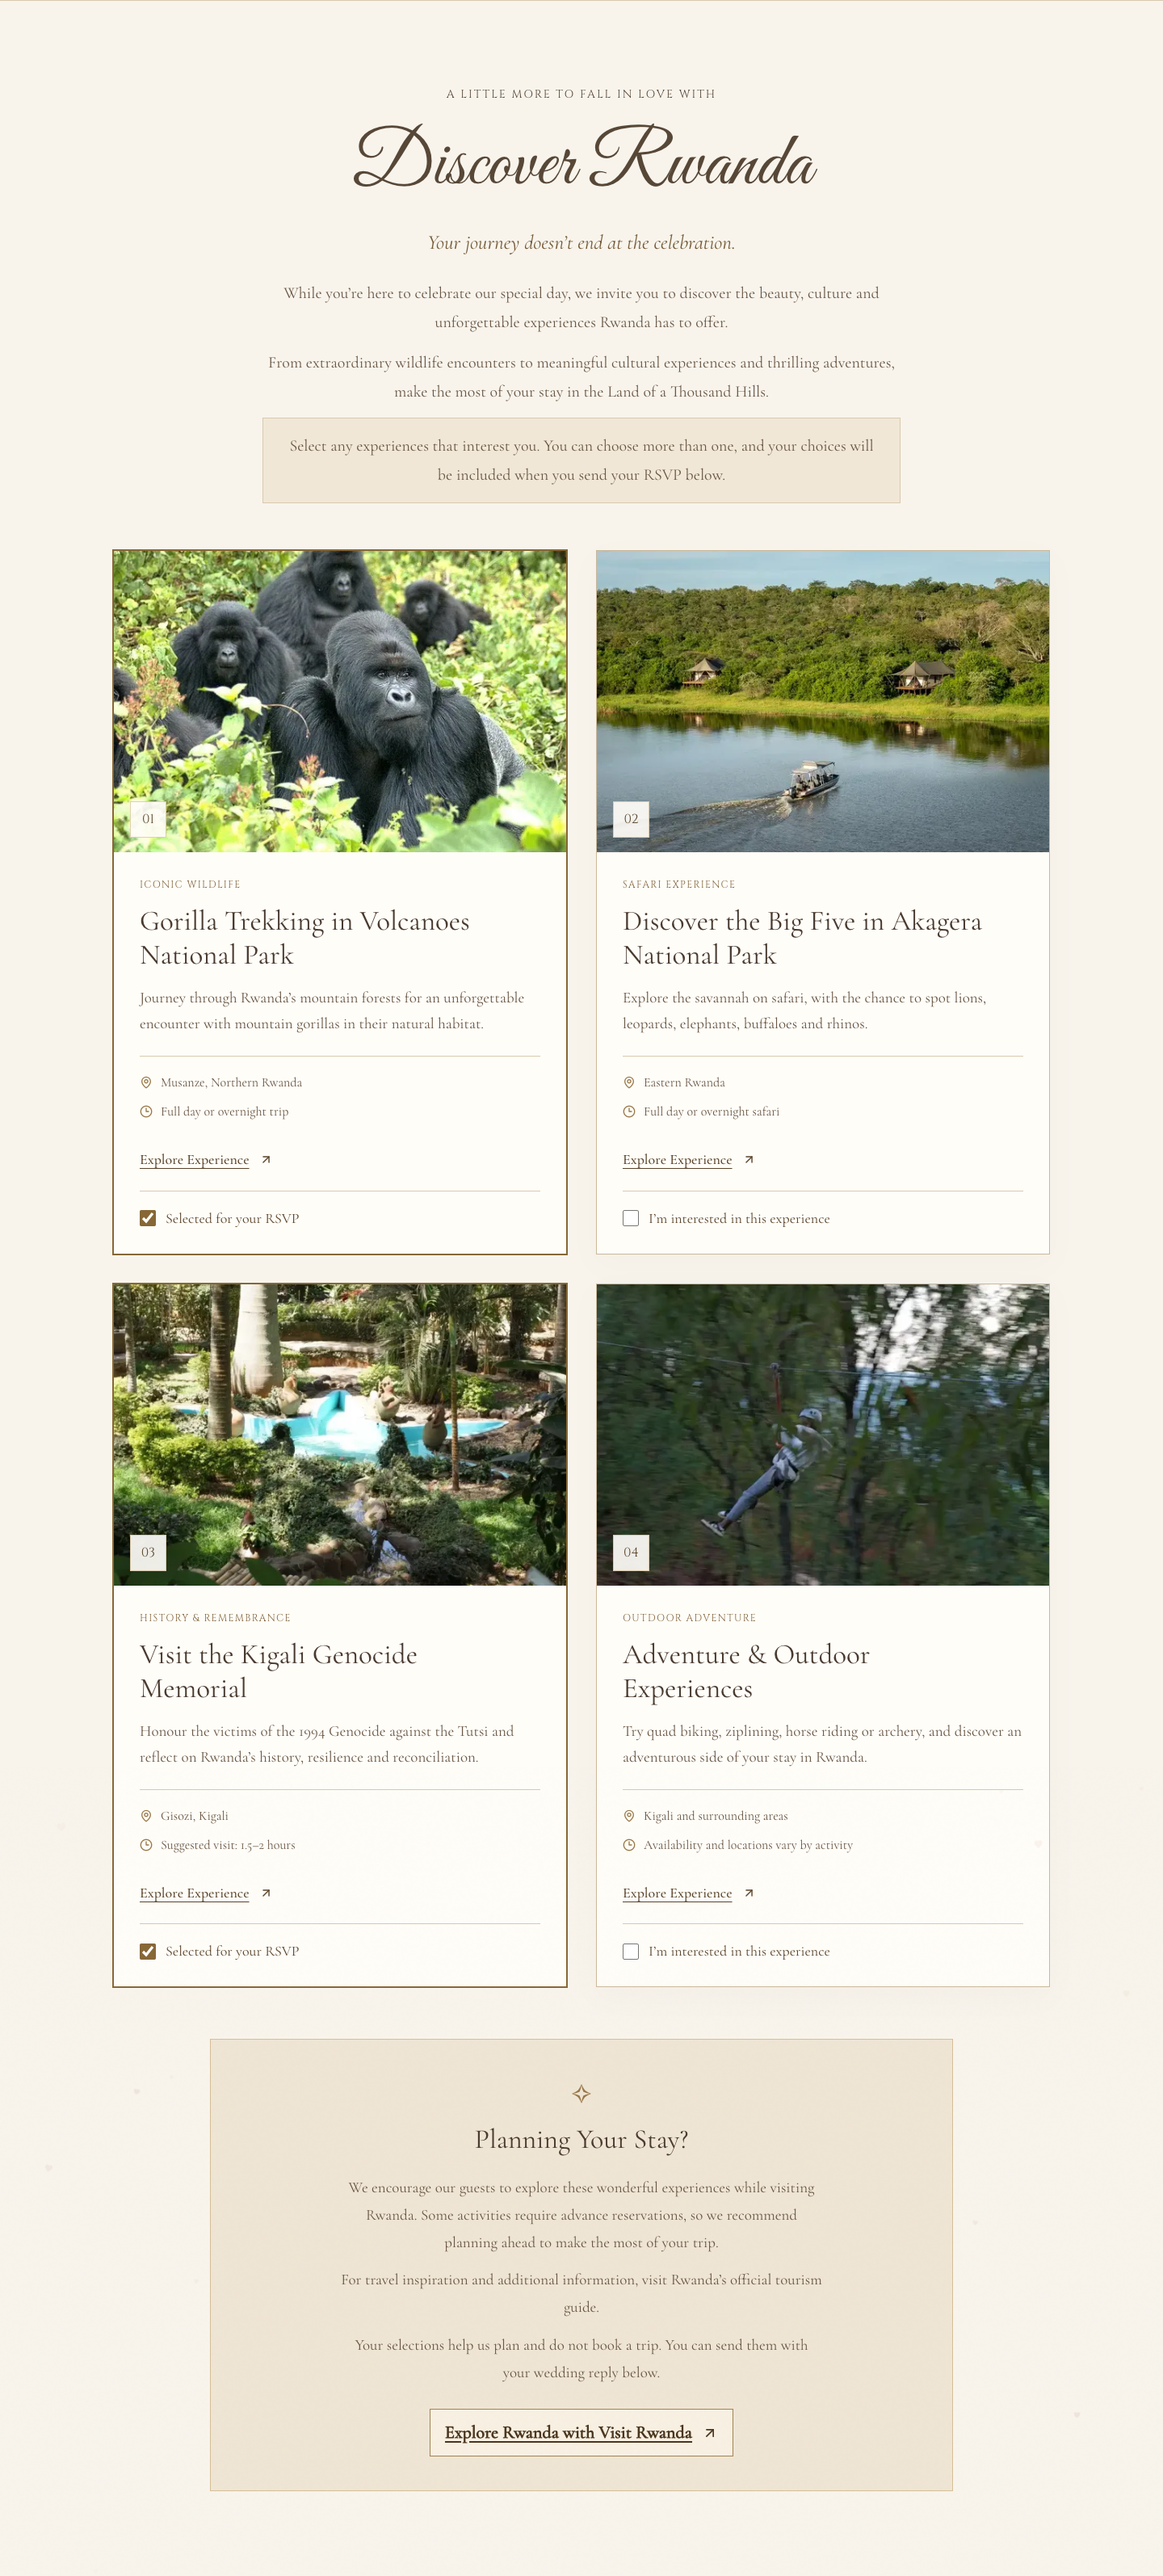
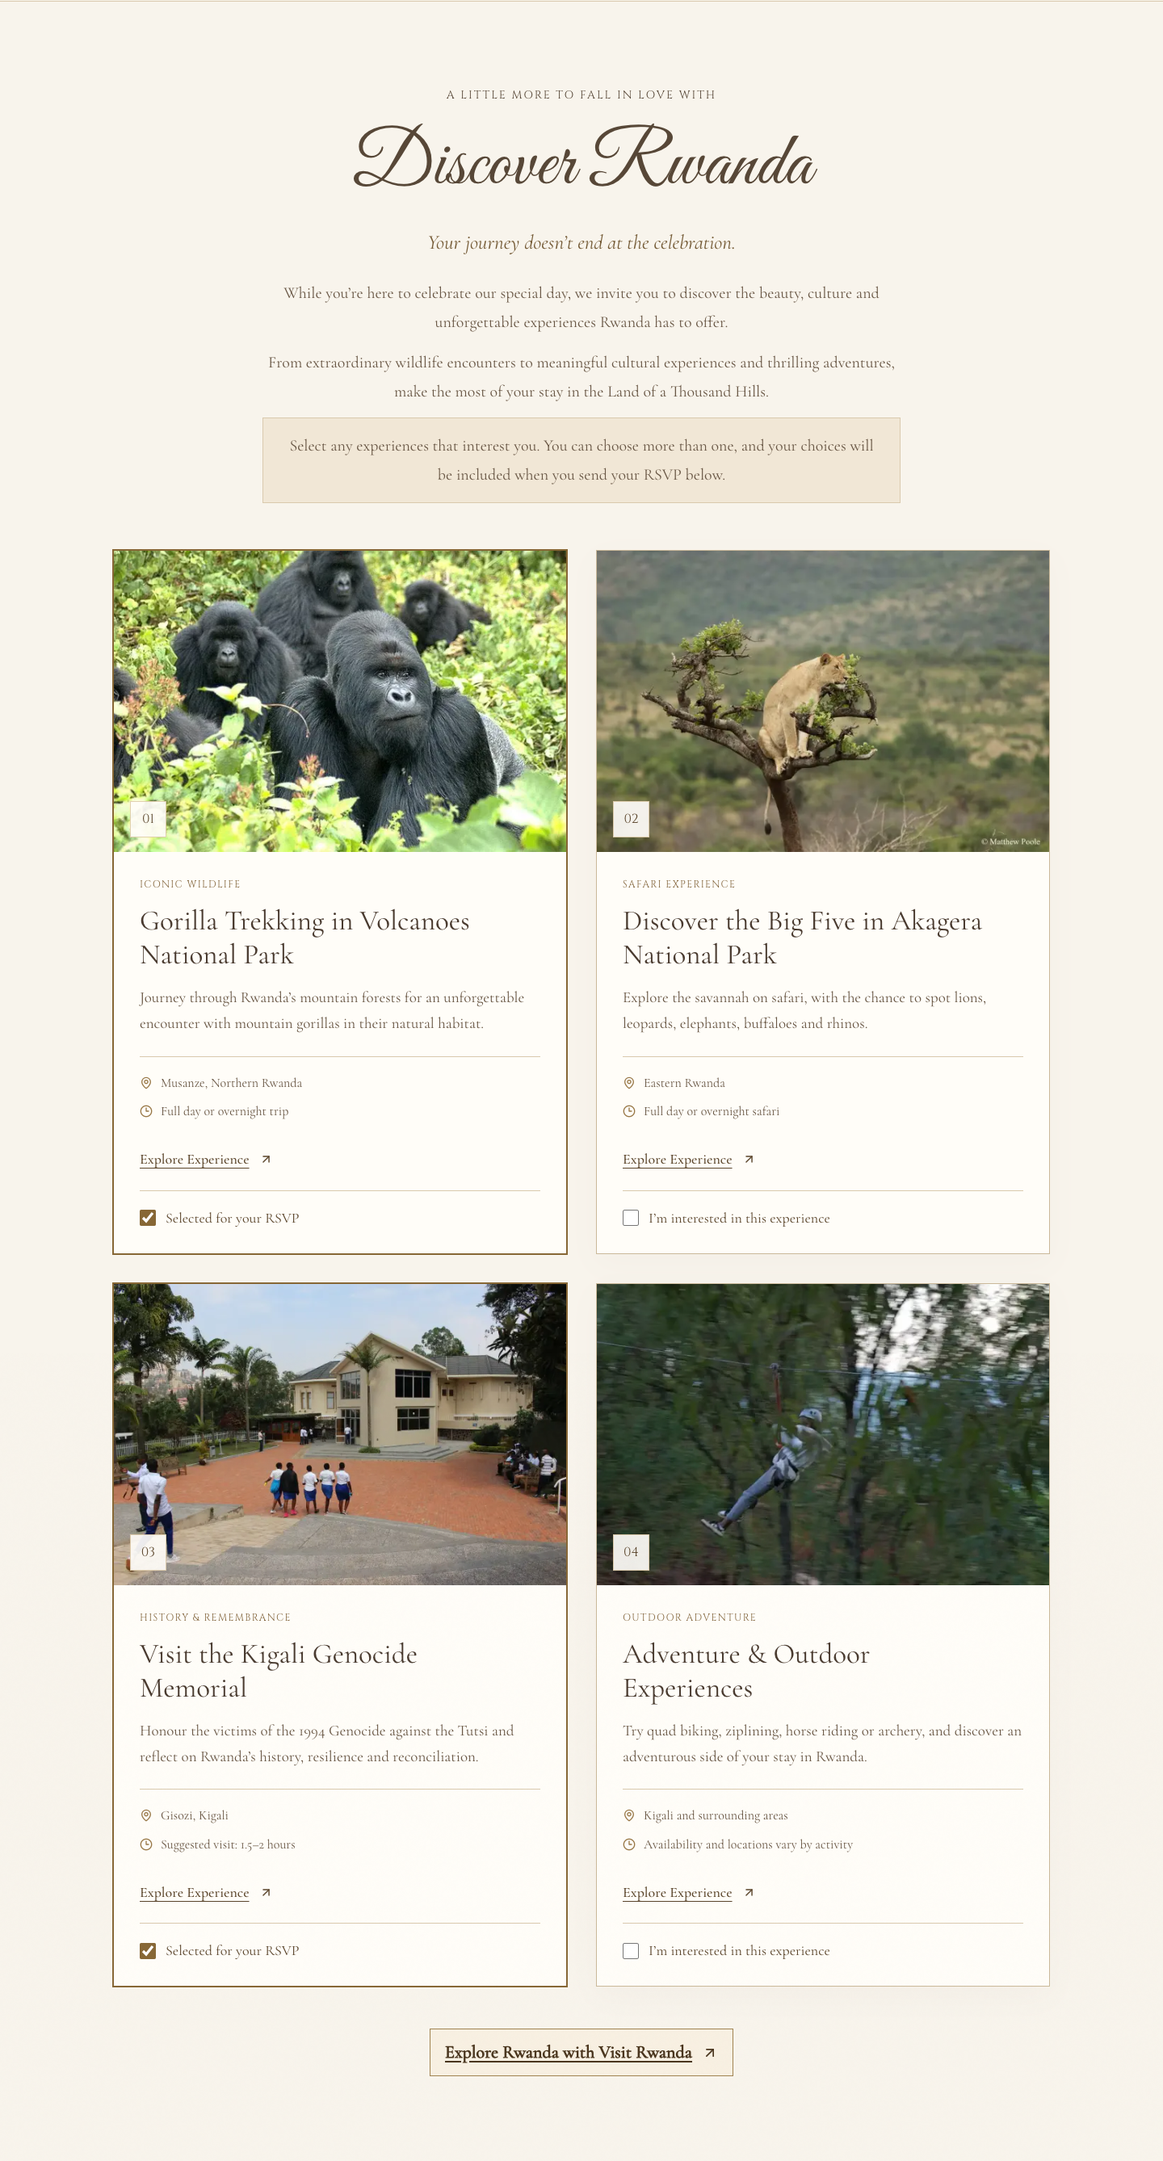
Simplify travel content and correct Rwanda experience photos

diff --git a/src/components/invitation/DiscoverRwanda.module.css b/src/components/invitation/DiscoverRwanda.module.css
@@ -24,10 +24,7 @@
 .details dd { margin:0; min-width:0; }
 .explore { display:flex; align-items:center; gap:12px; align-self:flex-start; min-height:44px; font-size:18px; font-weight:500; color:#594329; text-decoration:underline; text-underline-offset:5px; margin-top:14px; }
 .explore:hover { color:#8b6b37; }
-.planning { max-width:920px; margin:64px auto 0; padding:42px 52px; text-align:center; background:#efe5d4; border:1px solid #c4a46a99; }
-.ornament { display:block; font-size:32px; color:#987746; margin-bottom:8px; }
-.planning h3 { font-size:34px; line-height:1.3; margin-bottom:20px; color:#493a2f; }
-.planning p { max-width:66ch; margin:12px auto; font-size:19px; line-height:1.8; color:#685644; }
+.guideLink { margin:36px auto 0; text-align:center; }
 .guide { display:inline-flex; justify-content:center; align-items:center; gap:12px; max-width:100%; margin-top:16px; padding:12px 18px; background:#f8f0e2; border:1px solid #a08350; color:#49341c; font-size:22px; font-weight:700; line-height:1.5; text-decoration:underline; text-underline-offset:4px; }
 .guide svg { flex-shrink:0; }
 .guide:hover { background:var(--pearl); }
@@ -35,5 +32,5 @@
 @media(max-width:700px) {
   .intro { margin-bottom:36px; }.intro h2 { font-size:64px; }.intro .tagline { font-size:23px; }.intro p:not(.tagline):not(:first-child) { font-size:19px; }
   .grid { grid-template-columns:1fr; gap:28px; }.copy { padding:24px 22px; }.copy h3 { font-size:30px; }.description { font-size:19px; }
-  .planning { padding:30px 22px; margin-top:38px; }.planning h3 { font-size:30px; }.guide { font-size:21px; padding:12px; gap:8px; text-align:left; }
+  .guide { font-size:21px; padding:12px; gap:8px; text-align:left; }
 }

diff --git a/tests/e2e/invitation.spec.ts b/tests/e2e/invitation.spec.ts
@@ -174,7 +174,9 @@ test('Discover Rwanda shares multiple checkbox selections with the wedding RSVP'
     'Gorilla Trekking in Volcanoes National Park', 'Discover the Big Five in Akagera National Park',
     'Visit the Kigali Genocide Memorial', 'Adventure & Outdoor Experiences',
   ]);
-  expect(await discover.evaluate(el => el.previousElementSibling?.id)).toBe('travel');
+  expect(await discover.evaluate(el => el.previousElementSibling?.id)).toBe('moments');
+  await expect(page.locator('#travel, a[href="#travel"]')).toHaveCount(0);
+  await expect(page.getByRole('heading', {name:'Planning Your Stay?'})).toHaveCount(0);
   expect(await discover.evaluate(el => el.closest('form'))).toBeNull();
   await expect(discover.getByRole('link', {name:/Explore Experience:/})).toHaveCount(4);
   await expect(discover.getByRole('link', {name:/Explore Experience: Gorilla/})).toHaveAttribute('href','https://visitrwandabookings.rdb.rw/rdbportal/mountain-gorilla-tracking');
@@ -186,7 +188,7 @@ test('Discover Rwanda shares multiple checkbox selections with the wedding RSVP'
   await gorillas.check(); await memorial.focus(); await page.keyboard.press('Space');
   await expect(gorillas).toBeChecked(); await expect(memorial).toBeChecked();
   await gorillas.uncheck(); await expect(gorillas).not.toBeChecked(); await gorillas.check();
-  await page.getByRole('link', {name:'Share your stay preferences'}).click();
+  await page.locator('#rsvp').scrollIntoViewIfNeeded();
   await guest(page);
   await page.getByRole('radio', {name:'Joyfully accepts'}).check();
   await page.getByRole('radio', {name:'No, I have my own arrangements'}).check();

diff --git a/src/components/shared/InvitationNavigation.tsx b/src/components/shared/InvitationNavigation.tsx
@@ -7,7 +7,7 @@ export default function InvitationNavigation() {
   return <header className="site-header"><a className="brand" href="#home" aria-label="Shee Salamata and Don Vincent, home"><Monogram/></a>
     <button type="button" className="mobile-menu" aria-label={open ? "Close navigation" : "Open navigation"} aria-expanded={open} aria-controls="invitation-navigation" onClick={() => setOpen(!open)}>{open ? <X size={19}/> : <Menu size={19}/>}</button>
     <nav id="invitation-navigation" className={open ? "site-nav is-open" : "site-nav"} aria-label="Invitation navigation" onKeyDown={e => { if (e.key === "Escape") { setOpen(false); document.querySelector<HTMLButtonElement>(".mobile-menu")?.focus(); } }}>
-      {[['#invitation','The invitation'],['#celebration','The celebration'],['#itinerary','The itinerary'],['#venue','The venue'],['#travel','Travel & stay'],['#discover-rwanda','Discover Rwanda']].map(([href,label]) => <a href={href} key={href} onClick={() => setOpen(false)}>{label}</a>)}
+      {[['#invitation','The invitation'],['#celebration','The celebration'],['#itinerary','The itinerary'],['#venue','The venue'],['#discover-rwanda','Discover Rwanda']].map(([href,label]) => <a href={href} key={href} onClick={() => setOpen(false)}>{label}</a>)}
       <a className="nav-rsvp" href="#rsvp" onClick={() => setOpen(false)}>Kindly RSVP <span aria-hidden="true">↗</span></a>
     </nav>
   </header>;

diff --git a/src/lib/experiences.ts b/src/lib/experiences.ts
@@ -14,7 +14,7 @@ export const rwandaExperiences = [
     title: "Discover the Big Five in Akagera National Park",
     description: "Explore the savannah on safari, with the chance to spot lions, leopards, elephants, buffaloes and rhinos.",
     location: "Eastern Rwanda", duration: "Full day or overnight safari",
-    image: "/images/experiences/akagera.webp", imageAlt: "A safari boat crossing a lake in Akagera National Park, surrounded by green hills.",
+    image: "/images/experiences/akagera-lion.webp", imageAlt: "A lioness perched in a tree in Akagera National Park, Rwanda. Photograph by Matthew Poole.",
     href: "https://visitrwanda.com/destinations/akagera-national-park-2/",
   },
   {
@@ -22,7 +22,7 @@ export const rwandaExperiences = [
     title: "Visit the Kigali Genocide Memorial",
     description: "Honour the victims of the 1994 Genocide against the Tutsi and reflect on Rwanda’s history, resilience and reconciliation.",
     location: "Gisozi, Kigali", duration: "Suggested visit: 1.5–2 hours",
-    image: "/images/experiences/kigali-memorial.webp", imageAlt: "Sculptures, water and greenery in the memorial gardens at the Kigali Genocide Memorial.",
+    image: "/images/experiences/kigali-memorial-building.webp", imageAlt: "The main building and entrance courtyard at the Kigali Genocide Memorial in Gisozi, Kigali.",
     href: "https://kgm.rw/visit/",
   },
   {

diff --git a/src/app/page.tsx b/src/app/page.tsx
@@ -13,10 +13,9 @@ import SaveTheDate from "@/components/invitation/SaveTheDate";
 import PhotoGallery from "@/components/invitation/PhotoGallery";
 import GuestResponse from "@/components/rsvp/GuestResponse";
 import ClosingMessage from "@/components/invitation/ClosingMessage";
-import TravelAccommodation from "@/components/invitation/TravelAccommodation";
 import { weddingConfig } from "@/lib/wedding-config";
 
 export const dynamic = "force-dynamic";
 export default function Home() {
-  return <EnvelopeExperience><InvitationNavigation/><main id="main-content"><WeddingHero/><FormalInvitation/><CoupleStory/><CelebrationDetails/><WeddingItinerary/><VenueDetails/><SaveTheDate/><PhotoGallery/><TravelAccommodation/><GuestResponse whatsappNumber={weddingConfig.whatsappNumber} deadline={weddingConfig.rsvpDeadline}/></main><ClosingMessage/><FallingHearts/><MusicToggle/><SectionReveals/></EnvelopeExperience>;
+  return <EnvelopeExperience><InvitationNavigation/><main id="main-content"><WeddingHero/><FormalInvitation/><CoupleStory/><CelebrationDetails/><WeddingItinerary/><VenueDetails/><SaveTheDate/><PhotoGallery/><GuestResponse whatsappNumber={weddingConfig.whatsappNumber} deadline={weddingConfig.rsvpDeadline}/></main><ClosingMessage/><FallingHearts/><MusicToggle/><SectionReveals/></EnvelopeExperience>;
 }

diff --git a/src/components/invitation/DiscoverRwanda.tsx b/src/components/invitation/DiscoverRwanda.tsx
@@ -36,13 +36,8 @@ export default function DiscoverRwanda({ selected, onSelectionChange, disabled }
         </div>
       </article>)}
     </div>
-    <aside className={styles.planning} aria-labelledby="planning-stay-title" data-reveal>
-      <span className={styles.ornament} aria-hidden="true">✧</span>
-      <h3 id="planning-stay-title">Planning Your Stay?</h3>
-      <p>We encourage our guests to explore these wonderful experiences while visiting Rwanda. Some activities require advance reservations, so we recommend planning ahead to make the most of your trip.</p>
-      <p>For travel inspiration and additional information, visit Rwanda’s official tourism guide.</p>
-      <p>Your selections help us plan and do not book a trip. You can send them with your wedding reply below.</p>
+    <div className={styles.guideLink} data-reveal>
       <a href="https://visitrwanda.com/" target="_blank" rel="noopener noreferrer" className={styles.guide}>Explore Rwanda with Visit Rwanda <ArrowUpRight size={20} aria-hidden="true"/></a>
-    </aside>
+    </div>
   </section>;
 }

diff --git a/docs/INVITATION_EXPERIENCES_UPDATE.md b/docs/INVITATION_EXPERIENCES_UPDATE.md
@@ -2,11 +2,11 @@
 
 Owner feedback implemented on 16 November 2026:
 
-- Added a standalone Travel & Accommodation section, then Discover Rwanda, then the wedding RSVP.
+- Discover Rwanda follows the photo gallery, then the wedding RSVP. Removed the Travel & Accommodation section and its navigation link at the owner's request.
 - Featured gorilla trekking in Volcanoes National Park, Akagera safari, the Kigali Genocide Memorial, and outdoor adventures in the requested order. Cards use two columns on desktop and one on phones, short descriptions, location/time information, and Explore Experience links.
 - Discover Rwanda stays visually separate from the RSVP and has optional checkboxes on each card. Multiple selections share state with the RSVP through GuestResponse and appear in the same owner email table under “Rwanda experiences”, the submitted reply and the WhatsApp message. Choices lock during submission and after success, and unlock after a failed send.
-- Retained the bold, contrasting Visit Rwanda guide link in the new Planning Your Stay panel.
-- Added navigation links for Travel & stay and Discover Rwanda. The compact menu now starts at 1200px to fit the additional links without reducing their text size.
+- Removed the Planning Your Stay panel and retained the bold, contrasting Visit Rwanda guide link by itself below the cards.
+- Added a Discover Rwanda navigation link. The compact menu starts at 1200px to fit the links without reducing their text size.
 
 ## Official destination references
 
@@ -16,7 +16,6 @@ Checked on 16 November 2026:
 - Akagera: https://visitrwanda.com/destinations/akagera-national-park-2/
 - Kigali Genocide Memorial: https://kgm.rw/visit/
 - Outdoor adventure information: https://visitrwanda.com/tourism/interests/sports-adventure/
-- Travel information: https://visitrwanda.com/practical-information/
 - General inspiration: https://visitrwanda.com/
 
 Gorilla trekking is labelled Volcanoes National Park, Rwanda. Duration suggestions come from the owner's approved brief; they are not fixed itineraries. No prices, departures or guaranteed wildlife sightings are promised. The adventure card links to general Visit Rwanda information, with no individual activity booking links.
@@ -28,13 +27,15 @@ The enhanced landscape photograph `WhatsApp Image 2026-11-16 at 10.42.17.jpeg` r
 Activity image sources:
 
 - Gorillas: https://visitrwanda.com/wp-content/uploads/2026/03/Amahoro-Gorilla-group-1-1-1024x576.jpg
-- Akagera: https://visitrwanda.com/wp-content/uploads/2026/03/Boat-Safari-in-Akagera-National-Park-with-Magashi-Camp-by-Wilderness-Safaris1.jpg
-- Memorial gardens: https://kgm.rw/wp-content/uploads/2023/05/Memorial-Gardens-26512247736_72419c6fb6_o-scaled-e1685962601420.webp
+- Akagera lioness, replacing the boat/lake photo: https://visitrwanda.com/wp-content/uploads/fly-images/1396/Visit-Rwanda-Akagera-Lion-in-Tree-1920x1280.jpg (Matthew Poole; the visible photographer credit is preserved).
+- Kigali Genocide Memorial building and entrance courtyard, replacing the garden photo: https://kgm.rw/wp-content/uploads/2023/04/building.webp (from the memorial's official home page).
 - Zipline photography: https://www.fazenda.rw/web/image/22315-50b49dc8/ZIPLINE1.webp
 
 Images are served locally as optimized WebP assets with descriptive alt text. The zipline photograph shows the activity; it does not imply that the wedding hosts have selected a provider.
 
 ## Verification
+
+Latest photo and section cleanup: 72 unit/integration tests, ESLint, the production build, and four browser scenarios passed. The browser checks cover the multi-select RSVP submission and image loading/layout at 320px, 390px and 1440px, with the removed sections and navigation link absent. Desktop and mobile previews below reflect the replacement photographs and selected checkboxes.
 
 Automated RSVP tests intercept preparation and delivery requests and send no email. Tests verify that multiple checkbox selections flow from the separate Discover Rwanda section into the validated RSVP, owner email table, submitted review and WhatsApp reply. API tests check the actual table fields in both AJAX and CAPTCHA delivery paths. Native audio and gallery checks protect the existing invitation behavior.
 

diff --git a/README.md b/README.md
@@ -108,4 +108,4 @@ The hero uses `couple.jpeg` on phones and large screens. Desktop framing is boun
 
 RSVP is one continuous form. Attendance reveals the applicable accommodation question; Yes reveals stay preferences. Values survive toggling, inactive details are cleared from the payload, and responses appear inline. Success means FormSubmit accepted the submission. The form has no preview/test branch and unavailable WhatsApp controls are hidden.
 
-Travel & Accommodation is followed immediately by a standalone Discover Rwanda section, featuring gorilla trekking, Akagera safari, the Kigali Genocide Memorial and outdoor adventures. Photo cards link to official destination information and include optional checkboxes. Guests can select multiple activities in the standalone section; their choices are sent in the same RSVP email table and included in the submitted review and WhatsApp message. The form offers only definite accommodation choices. See [the invitation update](docs/INVITATION_EXPERIENCES_UPDATE.md) for sources and verification.
+The photo gallery is followed immediately by a standalone Discover Rwanda section, featuring gorilla trekking, Akagera safari, the Kigali Genocide Memorial and outdoor adventures. The Akagera card shows a lioness in the park, and the memorial card shows the actual memorial building and entrance courtyard. Photo cards link to official destination information and include optional checkboxes. Guests can select multiple activities in the standalone section; their choices are sent in the same RSVP email table and included in the submitted review and WhatsApp message. The form offers only definite accommodation choices. See [the invitation update](docs/INVITATION_EXPERIENCES_UPDATE.md) for sources and verification.
